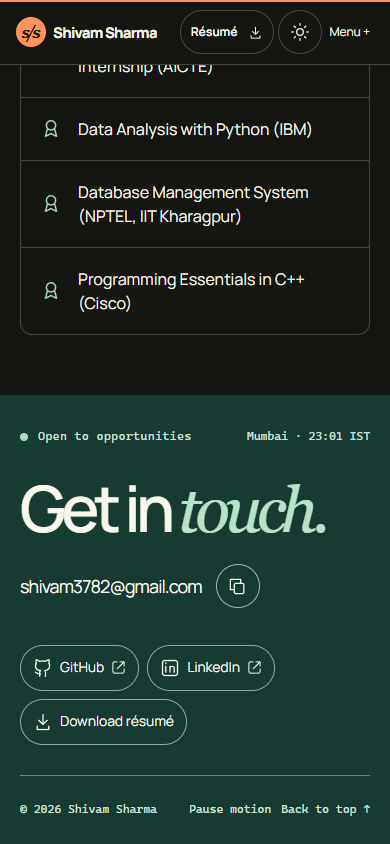
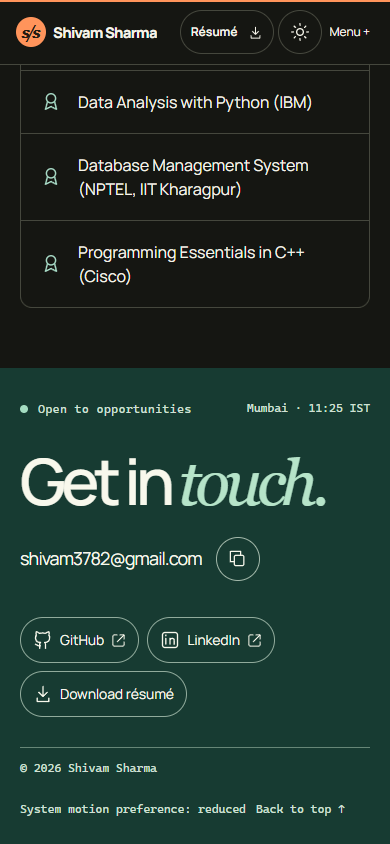
Polish recruiter navigation and verify the public review experience

diff --git a/frontend/src/components/Navbar.jsx b/frontend/src/components/Navbar.jsx
@@ -1,4 +1,4 @@
-import { useRef, useState } from 'react';
+import { useEffect, useRef, useState } from 'react';
 import { Link, useLocation } from 'react-router-dom';
 import { links, sections } from '../data/content';
 import useScrollSpy from '../hooks/useScrollSpy';
@@ -10,6 +10,20 @@ export default function Navbar({ onCommand, theme, onTheme, onMenu }) {
   const active = useScrollSpy(pathname, hash);
   const dialog = useRef(null);
   const trigger = useRef(null);
+  const brand = useRef(null);
+  useEffect(() => {
+    if (!open) return;
+    const desktop = window.matchMedia('(min-width: 1000px)');
+    const onResize = () => {
+      if (!desktop.matches) return;
+      dialog.current.close();
+      setOpen(false);
+      onMenu(false);
+      brand.current.focus();
+    };
+    desktop.addEventListener('change', onResize);
+    return () => desktop.removeEventListener('change', onResize);
+  }, [open, onMenu]);
   const close = () => {
     setOpen(false);
     onMenu(false);
@@ -17,13 +31,13 @@ export default function Navbar({ onCommand, theme, onTheme, onMenu }) {
     trigger.current?.focus();
   };
   return <><header className="site-header"><nav className="nav-shell" aria-label="Main navigation">
-    <Link className="wordmark" to="/#home" aria-label="Shivam Sharma home"><span className="studio-mark" aria-hidden="true">s/s</span><span>Shivam Sharma</span></Link>
+    <Link ref={brand} className="wordmark" to="/#home" aria-label="Shivam Sharma home"><span className="studio-mark" aria-hidden="true">s/s</span><span>Shivam Sharma</span></Link>
     <div className="nav-links">{sections.map(([id, label]) => <Link key={id} to={'/#' + id} aria-current={active === id ? 'location' : undefined}>{label}{active === id && <span className="active-indicator" />}</Link>)}</div>
     <div className="nav-tools"><a className="nav-cv" href={links.cv} download>Résumé<Icon name="down" size={15} /></a><button className="theme-toggle" onClick={onTheme} aria-label={'Switch to ' + (theme === 'dark' ? 'light' : 'dark') + ' theme'}><Icon name={theme === 'dark' ? 'sun' : 'moon'} /></button><button className="command-trigger" onClick={onCommand} aria-label="Open command palette"><kbd>Ctrl K</kbd></button><button className="menu-toggle" ref={trigger} aria-expanded={open} aria-controls="mobile-menu" onClick={() => { setOpen(true); onMenu(true); dialog.current.showModal(); }}>Menu +</button></div>
   </nav></header>
   <dialog ref={dialog} id="mobile-menu" className="mobile-menu" aria-label="Navigation menu" onCancel={event => { event.preventDefault(); close(); }}>
     <div className="mobile-top"><span>SHIVAM / MENU</span><button onClick={close}>Close ×</button></div>
-    <nav aria-label="Mobile navigation">{sections.map(([id, label], i) => <Link key={id} to={'/#' + id} onClick={close}><small>0{i + 1}</small>{label}<span aria-hidden="true">↗</span></Link>)}</nav>
+    <nav aria-label="Mobile navigation">{sections.map(([id, label]) => <Link key={id} to={'/#' + id} onClick={close}>{label}<span aria-hidden="true">↗</span></Link>)}</nav>
     <a className="button primary" href={links.cv} download onClick={close}>Download resume<Icon name="down" /></a>
     <button className="button secondary" onClick={() => { close(); onCommand(); }}>Command palette</button>
   </dialog></>;

diff --git a/frontend/src/studio.css b/frontend/src/studio.css
@@ -6,7 +6,7 @@
 .nav-shell { min-height: 72px; padding-inline: 0; width: min(1280px, calc(100% - 112px)); gap: 24px; }
 .site-header .wordmark { gap: 11px; font-size: 1.03rem; letter-spacing: -.045em; }
 .studio-mark { display: grid; place-items: center; width: 38px; height: 38px; border-radius: 50%; font: italic bold 20px var(--display-serif); letter-spacing: -3px; padding-right: 3px; color: #221d13; background: #ff945b; }
-.nav-links { gap: 22px; }
+.nav-links { gap: clamp(12px, 1.4vw, 22px); }
 .nav-links a { padding: 24px 0; }
 .active-indicator { bottom: 13px; }
 .nav-cv { border: 1px solid var(--border); padding: 0 14px; border-radius: 24px; }
@@ -71,7 +71,14 @@
 .studio-footer a:hover { text-decoration: underline; text-underline-offset: 4px; }
 .studio-colophon { margin-top: clamp(30px,4vw,68px); border-top: 1px solid #668677; padding: 12px 0; }
 .studio-colophon button, .studio-colophon a { display: inline-flex; align-items: center; min-height: 44px; }
-.studio-colophon button { margin-left: auto; }
+.studio-colophon button, .motion-preference { margin-left: auto; }
+.studio-footer > .container { display: grid; grid-template-columns: minmax(0,1fr) auto; column-gap: 40px; }
+.contact-stamp, .studio-colophon { grid-column: 1 / -1; }
+.studio-footer .social-strip { align-self: center; flex-direction: column; min-width: 190px; }
+.social-strip a svg:last-child:not(:first-child) { margin-left: auto; }
+.project-card { scroll-margin-top: 94px; }
+.project-card h3 a:hover { text-decoration: underline; text-decoration-thickness: .055em; text-underline-offset: .13em; }
+html:has(.studio-dialog[open]) { overflow: hidden; }
 .studio-footer :focus-visible { outline-color: #ffd4a0; }
 @media (max-width:1199px) { .nav-shell { width: calc(100% - 72px); } }
 @media (max-width:999px) {
@@ -82,6 +89,11 @@
   .toolkit-grid { grid-template-columns: repeat(2,minmax(0,1fr)); }
 }
 @media (max-width:700px) {
+  .studio-footer > .container { display: block; }
+  .studio-footer .social-strip { flex-direction: row; }
+  .studio-colophon .motion-preference { margin-left: 0; }
+  .studio-colophon { justify-content: start; }
+  .menu-toggle { min-width: 44px; }
   .nav-shell { min-height: 64px; width: calc(100% - 32px); gap: 8px; }
   .site-header .wordmark { gap: 7px; font-size: .92rem; }
   .studio-mark { width: 30px; height: 30px; font-size: 17px; }
@@ -89,8 +101,6 @@
   .nav-cv { padding: 0 10px; }
   .studio-hero { grid-template-columns: 1fr; padding: 99px 0 34px; gap: 24px; }
   .studio-intro h1 { margin: 14px 0 16px; font-size: clamp(3.65rem,14vw,5.8rem); }
-  .studio-intro h1 br { display: none; }
-  .studio-intro h1 em::before { content: ' '; }
   .studio-exhibit > img { aspect-ratio: 1.55; }
   .studio-exhibit figcaption { inset: auto 8px 8px; }
   .studio-actions { margin-top: 14px; }

diff --git a/frontend/src/components/ProjectCard.jsx b/frontend/src/components/ProjectCard.jsx
@@ -13,11 +13,12 @@ export default function ProjectCard({ project, index, featured = false, compact 
   const boundary = description.search(/\. (?=[A-Z])/);
   const summary = projectSummary(project);
   const details = project.summary?.trim() ? description : boundary > 35 ? description.slice(boundary + 2) : '';
-  return <article className={'project-card' + (featured ? ' featured-project' : '')}>
+  const anchor = 'project-' + project._id;
+  return <article id={anchor} className={'project-card' + (featured ? ' featured-project' : '')}>
     {!compact && <div className="project-art">{image && image !== failedImage ? <img src={image} alt={project.name + ' project preview'} loading="lazy" decoding="async" width="960" height="570" onError={() => setFailedImage(image)} /> : <ProjectIllustration name={project.name} />}</div>}
     <div className="project-body">
       <p className="project-index mono">{featured ? 'Featured project' : 'Project ' + (index + 1)}</p>
-      <h3>{project.name}</h3><p className="project-summary">{summary}</p>
+      <h3><a href={'/#' + encodeURIComponent(anchor)} title={'Permalink to ' + project.name}>{project.name}</a></h3><p className="project-summary">{summary}</p>
       <ul className="project-tech" aria-label="Technologies">{(project.tech || []).map(t => <li key={t}>{t}</li>)}</ul>
       {details && <details className="project-details"><summary>Engineering notes<span aria-hidden="true">+</span></summary><p>{details}</p></details>}
       {(github || live) && <div className="project-links">{github && <a href={github} target="_blank" rel="noreferrer"><Icon name="github" size={18} />View source<Icon name="arrow" size={16} /><span className="sr-only"> for {project.name}</span></a>}{live && <a href={live} target="_blank" rel="noreferrer">Live project<Icon name="arrow" size={18} /><span className="sr-only">: {project.name}</span></a>}</div>}

diff --git a/frontend/src/components/Footer.jsx b/frontend/src/components/Footer.jsx
@@ -1,7 +1,7 @@
 import { Link } from 'react-router-dom';
 import { useEffect, useState } from 'react';
 import { links } from '../data/content';
-import { toggleMotion, useMotionPaused } from '../hooks/useReducedMotion';
+import { toggleMotion, useMotionPaused, useSystemReducedMotion } from '../hooks/useReducedMotion';
 import Icon from './Icon';
 
 const clock = new Intl.DateTimeFormat('en-GB', { timeZone: 'Asia/Kolkata', hour: '2-digit', minute: '2-digit' });
@@ -11,6 +11,7 @@ export default function Footer() {
   const [time, setTime] = useState(() => clock.format(new Date()));
   const [copyStatus, setCopyStatus] = useState('');
   const paused = useMotionPaused();
+  const systemReduced = useSystemReducedMotion();
   useEffect(() => {
     const timer = setInterval(() => setTime(clock.format(new Date())), 60000);
     return () => clearInterval(timer);
@@ -40,7 +41,7 @@ export default function Footer() {
           <a href={links.linkedin} target="_blank" rel="noreferrer"><Icon name="linkedin" />LinkedIn <Icon name="external" size={15} /></a>
           <a href={links.cv} download><Icon name="down" />Download résumé</a>
         </div>
-        <div className="studio-colophon"><span>© {new Date().getFullYear()} Shivam Sharma</span><button onClick={toggleMotion} aria-pressed={paused}>{paused ? 'Resume motion' : 'Pause motion'}</button><Link to="/#home">Back to top ↑</Link></div>
+        <div className="studio-colophon"><span>© {new Date().getFullYear()} Shivam Sharma</span>{systemReduced ? <span className="motion-preference">System motion preference: reduced</span> : <button onClick={toggleMotion} aria-pressed={paused}>{paused ? 'Resume motion' : 'Pause motion'}</button>}<Link to="/#home">Back to top ↑</Link></div>
       </div>
     </footer>
   );

diff --git a/frontend/vite.config.js b/frontend/vite.config.js
@@ -9,9 +9,29 @@ export default defineConfig(({ mode, command }) => {
   // A production build fails before emitting assets if an override points at development.
   resolveApiOrigin(env.VITE_API_URL, command === 'build');
   const proxy = { '/api': { target: env.API_PROXY_TARGET || 'http://127.0.0.1:3000', changeOrigin: true } };
+  const publicReview = mode === 'public-review';
   return {
-    plugins: [react(), tailwindcss()],
+    plugins: [react(), tailwindcss(), publicReview && {
+      name: 'public-project-review',
+      configurePreviewServer(server) {
+        server.middlewares.use('/api', async (request, response) => {
+          response.setHeader('Content-Type', 'application/json');
+          if (request.method !== 'GET' || request.url !== '/projects') {
+            response.statusCode = 403;
+            return response.end(JSON.stringify({ error: 'This preview only reads the public project list.' }));
+          }
+          try {
+            const result = await fetch('https://www.shivam-sharma.me/api/projects', { signal: AbortSignal.timeout(60000) });
+            response.statusCode = result.status;
+            response.end(JSON.stringify(await result.json()));
+          } catch {
+            response.statusCode = 502;
+            response.end(JSON.stringify({ error: 'The public project service is unavailable.' }));
+          }
+        });
+      },
+    }],
     server: { host: 'localhost', port: 5173, strictPort: true, proxy },
-    preview: { host: 'localhost', port: 5173, strictPort: true, proxy },
+    preview: { host: 'localhost', port: 5173, strictPort: true, proxy: publicReview ? {} : proxy },
   };
 });

diff --git a/frontend/src/hooks/useSmoothScroll.js b/frontend/src/hooks/useSmoothScroll.js
@@ -24,9 +24,12 @@ export default function useSmoothScroll(paused) {
       if (!main || main.getAttribute('aria-busy') === 'true') return;
       let id;
       try { id = decodeURIComponent(location.hash.slice(1)); } catch { id = ''; }
-      const target = document.getElementById(id) || main;
+      const projectList = document.getElementById('projects');
+      const projectLink = id.startsWith('project-') && projectList;
+      const anchor = document.getElementById(id);
+      if (!anchor && projectLink && projectList.getAttribute('aria-busy') === 'true') return;
+      const target = anchor || (projectLink ? projectList : main);
       observer.disconnect();
-      clearTimeout(timeout);
       frame = requestAnimationFrame(() => {
         const top = id ? target.getBoundingClientRect().top + window.scrollY - 100 : 0;
         scrollToTarget(top, Boolean(id));
@@ -36,8 +39,7 @@ export default function useSmoothScroll(paused) {
     };
     const observer = new MutationObserver(navigate);
     observer.observe(document.getElementById('root'), { childList: true, subtree: true });
-    const timeout = setTimeout(() => observer.disconnect(), 10000);
     navigate();
-    return () => { observer.disconnect(); clearTimeout(timeout); cancelAnimationFrame(frame); };
+    return () => { observer.disconnect(); cancelAnimationFrame(frame); };
   }, [location, navigationType]);
 }

diff --git a/frontend/src/App.jsx b/frontend/src/App.jsx
@@ -13,7 +13,7 @@ import About from './components/About';
 import useKonami from './hooks/useKonami';
 import useSmoothScroll from './hooks/useSmoothScroll';
 import useTheme from './hooks/useTheme';
-import { toggleMotion, useMotionPaused } from './hooks/useReducedMotion';
+import { toggleMotion, useMotionPaused, useSystemReducedMotion } from './hooks/useReducedMotion';
 import './App.css';
 import './studio.css';
 
@@ -35,6 +35,7 @@ function Shell() {
   const [menu, setMenu] = useState(false);
   const [theme, toggleTheme] = useTheme();
   const motionPaused = useMotionPaused();
+  const systemReduced = useSystemReducedMotion();
   const close = useCallback(() => setCommand(false), []);
   const open = useCallback(() => setCommand(true), []);
   const activated = useKonami();
@@ -80,7 +81,7 @@ function Shell() {
       </div>
       {!admin && <Footer />}
       {command && <Suspense fallback={<div className="cheat-toast" role="status">Opening commands…</div>}>
-        <CommandPalette open={command} onClose={close} onTheme={toggleTheme} onMotion={toggleMotion} motionPaused={motionPaused} />
+        <CommandPalette open={command} onClose={close} onTheme={toggleTheme} onMotion={systemReduced ? undefined : toggleMotion} motionPaused={motionPaused} />
       </Suspense>}
       {activated && <div className="cheat-toast" role="status">CHEAT CODE ACTIVATED</div>}
     </div>

diff --git a/frontend/src/components/About.jsx b/frontend/src/components/About.jsx
@@ -1,5 +1,6 @@
 import { profile } from '../data/content';
 import Mascot from './Mascot';
+import { Link } from 'react-router-dom';
 
 export default function About({ onCommand }) {
   return (
@@ -12,7 +13,7 @@ export default function About({ onCommand }) {
       <div className="profile-text">
         <p>I’m Shivam, an information technology graduate who likes working on both sides of an interface.</p>
         <p>My projects range from a marketplace connecting farmers and consumers to a machine-learning assistant for insurance documents. I work with React and Flutter on the interface, and Node.js, Flask and Python behind it.</p>
-        <a className="studio-text-link" href="#mentoring">My work as a mentor <span aria-hidden="true">↓</span></a>
+        <Link className="studio-text-link" to="/#mentoring">My work as a mentor <span aria-hidden="true">↓</span></Link>
       </div>
     </section>
   );

diff --git a/frontend/src/data/content.js b/frontend/src/data/content.js
@@ -1,8 +1,8 @@
 export const profile = {
-  introduction: 'I’m Shivam Sharma, a developer in Mumbai building full-stack applications, machine-learning tools and mobile experiences.',
+  introduction: 'Software engineer in Mumbai building full-stack applications and machine-learning tools, from crop forecasting to insurance document search.',
   location: 'Mumbai, India',
 };
-export const sections = [['projects', 'Projects'], ['about', 'About'], ['skills', 'Skills'], ['education', 'Education'], ['mentoring', 'Leadership'], ['contact', 'Contact']];
+export const sections = [['projects', 'Projects'], ['about', 'About'], ['skills', 'Skills'], ['education', 'Education'], ['mentoring', 'Leadership'], ['proof', 'Certifications'], ['contact', 'Contact']];
 export const links = {
   github: 'https://github.com/shivam3782',
   linkedin: 'https://www.linkedin.com/in/shivam-sharma-ba2a4823a/',

diff --git a/frontend/src/components/CommandPalette.jsx b/frontend/src/components/CommandPalette.jsx
@@ -23,7 +23,7 @@ export default function CommandPalette({
       previous?.focus();
     };
   }, [open]);
-  const commands = [{ label: motionPaused ? 'Resume animations' : 'Pause animations', action: onMotion }, {
+  const commands = [...(onMotion ? [{ label: motionPaused ? 'Resume animations' : 'Pause animations', action: onMotion }] : []), {
     label: 'Toggle color theme',
     action: onTheme
   }, {
@@ -33,9 +33,6 @@ export default function CommandPalette({
     label: `Go to ${label}`,
     section: id
   })), {
-    label: 'Go to Certifications',
-    section: 'proof'
-  }, {
     label: 'Download CV',
     href: links.cv,
     download: true

diff --git a/frontend/src/App.css b/frontend/src/App.css
@@ -128,7 +128,6 @@ select { color: var(--text); background: var(--surface); border: 1px solid var(-
 .mobile-top button { min-height: 44px; }
 .mobile-menu nav { margin: 30px 0; }
 .mobile-menu nav a { display: flex; align-items: center; gap: 20px; padding: 17px 0; font-size: clamp(25px,5vh,38px); border-bottom: 1px solid var(--border); }
-.mobile-menu nav small { font: 10px var(--mono); color: var(--muted); }
 .mobile-menu nav a > span { margin-left: auto; color: var(--accent); }
 .mobile-menu > .button { margin: 10px 10px 0 0; }
 .mascot { position: fixed; right: 28px; bottom: 25px; z-index: 35; display: flex; align-items: center; gap: 10px; }

diff --git a/frontend/src/components/Projects.jsx b/frontend/src/components/Projects.jsx
@@ -36,7 +36,7 @@ export default function Projects() {
   function clearFilters() { setQuery(''); setTechnology(''); }
 
   return (
-    <section id="projects" className="studio-section projects-section" aria-labelledby="work-title">
+    <section id="projects" className="studio-section projects-section" aria-labelledby="work-title" aria-busy={status === 'loading' || status === 'slow'}>
       <div className="work-heading">
         <h2 id="work-title" className="studio-heading">Selected <em>work.</em></h2>
         {status === 'ready' && projects.length > 0 && <div className="view-switch" role="group" aria-label="Project display">
